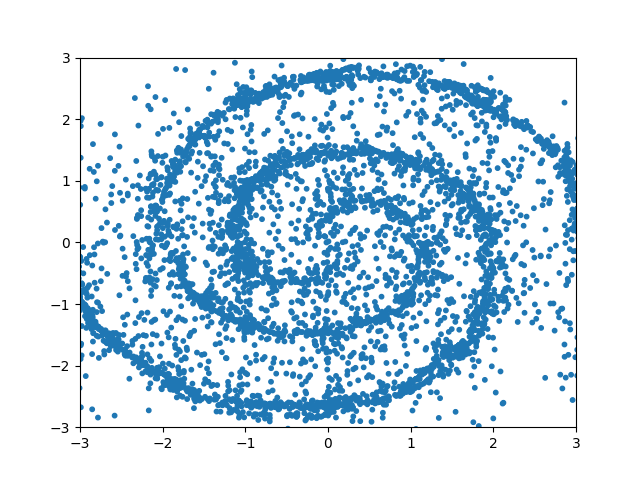
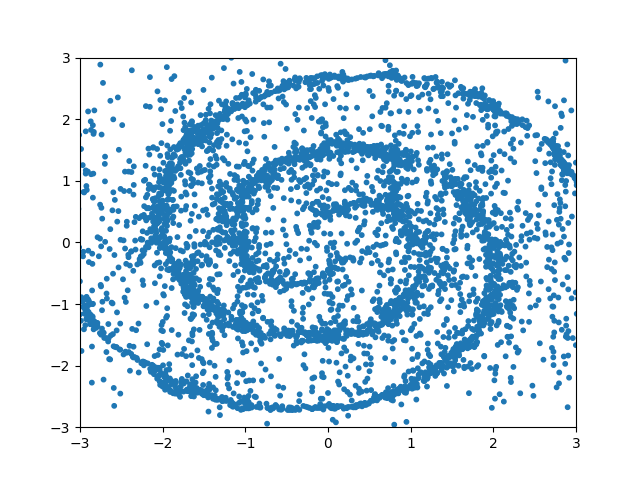
generic commit

diff --git a/scripts/transport/c_transport.py b/scripts/transport/c_transport.py
@@ -481,9 +481,9 @@ def run():
     target_gen = sample_spirals
     range = [[-3,3],[-3,3]]
     slice_range = [-3,3]
-    #process_funcs = [flip_2tensor, flip_2tensor ]
+    process_funcs = [flip_2tensor, flip_2tensor ]
     process_funcs = []
-    conditional_transport_exp(ref_gen, target_gen, exp_name= 'spiral', N = 5000, n_iter = 20000,
+    conditional_transport_exp(ref_gen, target_gen, exp_name= 'spiral_flip', N = 5000, n_iter = 20000,
                               plt_range=range, slice_range= slice_range, process_funcs=process_funcs, slice_vals=[0])
 
 
